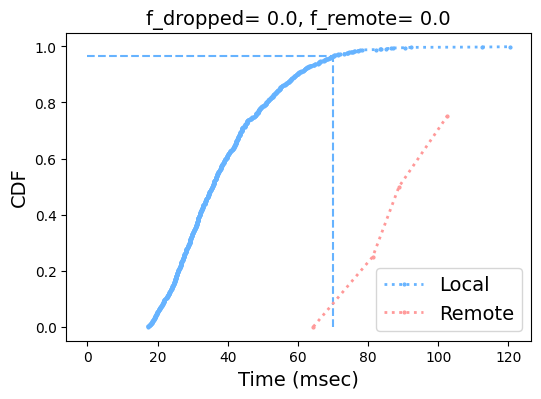
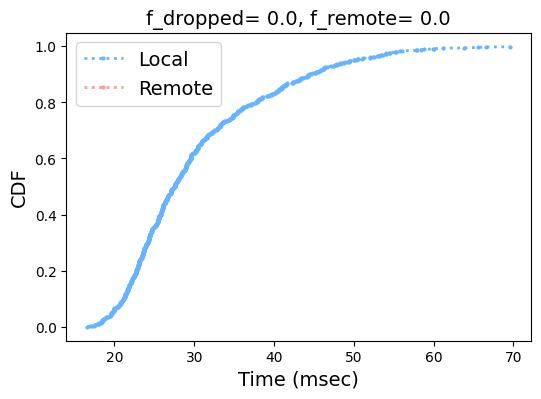
Before moving the container to google-cloud.

diff --git a/edge_cloud.py b/edge_cloud.py
@@ -7,7 +7,7 @@ from jobgen import *
 from plot_utils import *
 
 class EdgeCloud():
-	def __init__(self, listen_ip_l, max_delay, flow_win_size):
+	def __init__(self, listen_ip_l, max_delay):
 		self.max_delay = max_delay
 		self.commer = Commer(listen_ip_l, self.handle_msg)
 		self._id = self.commer._id
@@ -17,10 +17,10 @@ class EdgeCloud():
 		# sleep(3)
 		self.commer.connect_to_peers()
 
-		pid_l = [i for i in range(len(listen_ip_l)) if i != self._id]
+		pid_l = list(range(len(listen_ip_l)))
 		fc_server = FlowControlServer(pid_l)
-		self.fc_client = FlowControlClient(pid_l, self.commer, flow_win_size)
-		self.cluster = Cluster(self._id, fc_server, self.fc_client, self.handle_result, max_delay)
+		fc_client = FlowControlClient(self._id, pid_l, fc_server, self.commer, max_delay)
+		self.cluster = Cluster(self._id, fc_server, fc_client, self.handle_result, max_delay)
 
 		self.job_info_m = {}
 
@@ -30,14 +30,14 @@ class EdgeCloud():
 	def put(self, job):
 		job.origin_id = self._id
 		self.job_info_m[job] = {'enter_time': time.time()}
-		if self.cluster.put(job, src='local') == False:
-			self.job_info_m[job] = {'fate': 'dropped'}
+		if self.cluster.put(job) == False:
+			self.job_info_m[job].update({'fate': 'dropped'})
 
 	def handle_msg(self, msg):
 		log(DEBUG, "handling", msg=msg)
 		payload = msg.payload
 		if payload.is_job():
-			self.cluster.put(payload, src='remote')
+			self.cluster.put(payload)
 		elif payload.is_result():
 			self.reg_result(payload, msg.src_id)
 
@@ -54,9 +54,6 @@ class EdgeCloud():
 		check(result in self.job_info_m, "Result for no job is recved", result=result, from_id=from_id)
 		info = self.job_info_m[result]
 		t = time.time() - info['enter_time']
-		if t < 0:
-			log(WARNING, "Negative turnaround time", result=result, t=t)
-			return
 
 		info.update(
 			{
@@ -65,7 +62,7 @@ class EdgeCloud():
 				'T': 1000*t
 			})
 
-		self.cluster.update_delay_controller(t, from_id)
+		self.cluster.update_delay_controller(from_id, t)
 
 		log(DEBUG, "reged", result=result)
 
@@ -82,6 +79,10 @@ class EdgeCloud():
 			elif fate == 'finished':
 				from_id = info['from_id']
 				T = info['T']
+				if T < 0:
+					log(WARNING, "Negative turnaround time", job=job, T=T)
+					continue
+
 				if self._id == from_id:
 					T_local_l.append(T)
 				else:
@@ -124,7 +125,7 @@ def parse_argv(argv):
 def test(argv):
 	ip_l = parse_argv(argv)
 
-	ec = EdgeCloud(ip_l, max_delay=0.07, flow_win_size=1)
+	ec = EdgeCloud(ip_l, max_delay=0.07)
 	log_to_file('e{}.log'.format(ec._id))
 
 	# input("Enter for putting job...\n")
@@ -138,12 +139,12 @@ def test(argv):
 
 	avg_serv_time = 0.01
 	mu = float(1/avg_serv_time)
-	ar = 0.9*mu if ec._id == 0 else 0.2*mu
+	ar = 0.9*mu if ec._id == 0 else 0.00000002*mu
 	jg = JobGen(inter_ar_time_rv=Exp(ar),
-							serv_time_rv=DiscreteRV(p_l=[1], v_l=[avg_serv_time*1000], norm_factor=1000), # Exp(mu),
+							serv_time_rv=Exp(mu), # DiscreteRV(p_l=[1], v_l=[avg_serv_time*1000], norm_factor=1000),
 							size_inBs_rv=DiscreteRV(p_l=[1], v_l=[1]),
 							out=ec,
-							num_jobs_to_send=2000)
+							num_jobs_to_send=1000)
 
 	input("Enter to print job_info_m...\n")
 	# log(DEBUG, "", job_info_m=ec.job_info_m)

diff --git a/cluster.py b/cluster.py
@@ -12,26 +12,18 @@ class Cluster():
 		self.fc_client = fc_client
 		self.handle_result = handle_result
 
-		self.delay_controller = DelayController(_id, max_delay)
-		self.q = deque()
-
 		self.wait_for_ajob = threading.Condition()
 		self.is_waiting_for_ajob = False
 		t = threading.Thread(target=self.run, daemon=True)
 		t.start()
 
-	def put(self, job, src='local'):
+	def put(self, job):
 		log(DEBUG, "recved", job=job)
 
 		r = False
-		if src == 'local':
-			if self.delay_controller.put():
-				self.q.append(job)
-				log(DEBUG, "put into local q", job=job, len_q=len(self.q))
-				r = True
-			else:
-				r = self.fc_client.push(job)
-		elif src == 'remote':
+		if job.origin_id == self._id:
+			r = self.fc_client.push(job)
+		else:
 			r = self.fc_server.push(job)
 
 		if self.is_waiting_for_ajob:
@@ -41,20 +33,12 @@ class Cluster():
 
 		return r
 
-	def update_delay_controller(self, t, from_id):
-		if from_id == self._id: # local
-			self.delay_controller.update(t)
-		else:
-			self.fc_client.update_delay_controller(from_id, t)
-
-	def next_in_line(self):
-		if len(self.q) > 0:
-			return self.q.popleft()
-		return self.fc_server.pop()
+	def update_delay_controller(self, from_id, t):
+		self.fc_client.update_delay_controller(from_id, t)
 
 	def run(self):
 		while True:
-			job = self.next_in_line()
+			job = self.fc_server.pop()
 			if job is None:
 				self.is_waiting_for_ajob = True
 				with self.wait_for_ajob:
@@ -63,11 +47,6 @@ class Cluster():
 					log(DEBUG, "a job has arrived!")
 					self.is_waiting_for_ajob = False
 				continue
-
-			# waiting_time = time.time() - job.enter_time
-			# if waiting_time >= job.max_waiting_time:
-			# 	log(WARNING, "waiting_time= {} > max_waiting_time= {}, dropping the job".format(waiting_time, job.max_waiting_time), job=job)
-			# 	continue
 
 			log(DEBUG, "will serv", job=job)
 			time.sleep(job.serv_time)

diff --git a/flow_control.py b/flow_control.py
@@ -32,8 +32,10 @@ class FlowControlServer():
 		return None
 
 class FlowControlClient():
-	def __init__(self, pid_l, commer, max_delay):
+	def __init__(self, _id, pid_l, fc_server, commer, max_delay):
+		self._id = _id
 		self.pid_l = pid_l
+		self.fc_server = fc_server
 		self.commer = commer
 
 		self.pid_delay_controller_m = {pid: DelayController(pid, max_delay) for pid in pid_l}
@@ -43,7 +45,7 @@ class FlowControlClient():
 		self.num_jobs_pushed = 0
 
 	def __repr__(self):
-		return "FlowControlClient(pid_l= {})".format(self.pid_l)
+		return "FlowControlClient(id= {}, pid_l= {})".format(self._id, self.pid_l)
 
 	def push(self, job):
 		log(DEBUG, "recved", job=job)
@@ -51,11 +53,16 @@ class FlowControlClient():
 		for _ in range(self.num_peers):
 			pid = self.next_pid_push_to_q[0]
 			self.next_pid_push_to_q.rotate(-1)
-			if self.pid_delay_controller_m[pid].put():
-				self.commer.send(msg = Msg(_id=self.num_jobs_pushed, payload=job, dst_id=pid))
-				self.num_jobs_pushed += 1
-				log(DEBUG, "sent to pid= {}".format(pid), job=job)
+			log(DEBUG, "***", pid=pid)
+			if pid == self._id:
+				self.fc_server.push(job)
 				return True
+			else:
+				if self.pid_delay_controller_m[pid].put():
+					self.commer.send(msg = Msg(_id=self.num_jobs_pushed, payload=job, dst_id=pid))
+					self.num_jobs_pushed += 1
+					log(DEBUG, "sent to pid= {}".format(pid), job=job)
+					return True
 		log(DEBUG, "dropping", job=job)
 		return False
 

diff --git a/controller.py b/controller.py
@@ -7,7 +7,7 @@ class DelayController():
 
 		self.q_len_limit = 2
 		self.q_len = 0
-		self.q_len_max = self.q_len_limit
+		self.q_len_max = 2
 		self.avg_delay = 0
 		self.a = 0.9
 
@@ -15,15 +15,18 @@ class DelayController():
 		self.q_len = max(0, self.q_len - 1)
 
 		self.avg_delay = (1 - self.a)*self.avg_delay + self.a*t
-		if self.avg_delay > self.max_delay:
-			self.q_len_limit = max(1, self.q_len_limit*1/2)
+		if self.avg_delay > 0.8*self.max_delay:
+			# self.q_len_limit = max(1, self.q_len_limit*1/2)
+			self.q_len_limit = int(self.q_len_limit*1/2)
+			log(WARNING, "reduced q_len_limit; id= {}".format(self._id))
 		else:
 			if self.q_len_limit < 2*self.q_len_max:
-				self.q_len_limit += 1/self.q_len_limit
-		log(DEBUG, "id= {}".format(self._id), avg_delay=self.avg_delay, q_len_limit=self.q_len_limit, q_len=self.q_len)
+				self.q_len_limit += 1/self.q_len_limit if self.q_len_limit >= 1 else 1
+				log(WARNING, "inced q_len_limit; id= {}".format(self._id))
+		log(DEBUG, "id= {}".format(self._id), avg_delay=self.avg_delay, max_delay=self.max_delay, q_len_limit=self.q_len_limit, q_len=self.q_len)
 
 	def put(self):
-		if self.q_len < self.q_len_limit:
+		if self.q_len <= self.q_len_limit:
 			self.q_len += 1
 			self.q_len_max = max(self.q_len_max, self.q_len)
 			return True

diff --git a/net.py b/net.py
@@ -17,7 +17,7 @@ class MyTopo(Topo):
 		e2 = self.addHost('e2')
 		s1 = self.addSwitch('s1')
 
-		link_opts = dict(bw=10, delay='1ms', loss=0, max_queue_size=1000, use_htb=True)
+		link_opts = dict(bw=1000, delay='1ms', loss=0, max_queue_size=1000, use_htb=True)
 		# wide_linkopts = dict(bw=1, delay='50ms', loss=0, max_queue_size=1000, use_htb=True)
 		# dsa_linkopts = dict(bw=1000, delay='1ms', loss=0, max_queue_size=10000, use_htb=True)
 		self.addLink(e1, s1, **link_opts)
@@ -54,13 +54,13 @@ if __name__ == '__main__':
 	# net = Mininet(topo=MyTopo(), link=TCLink, controller=RemoteController)
 	# cont = net.addController('r1', controller=RemoteController, ip='10.39.1.71',port=6633)
 	# cont.start()
-	
+
 	e1, e2 = net.getNodeByName('e1', 'e2')
 	e1.setIP(ip='10.0.0.1', prefixLen=32) #, intf='eth0')
 	e2.setIP(ip='10.0.0.2', prefixLen=32) #, intf='eth0')
 	e1.setMAC(mac='00:00:00:01:00:01')
 	e2.setMAC(mac='00:00:00:01:00:02')
-	
+
 	## To fix "network is unreachable"
 	e1.setDefaultRoute(intf='e1-eth0')
 	e2.setDefaultRoute(intf='e2-eth0')
